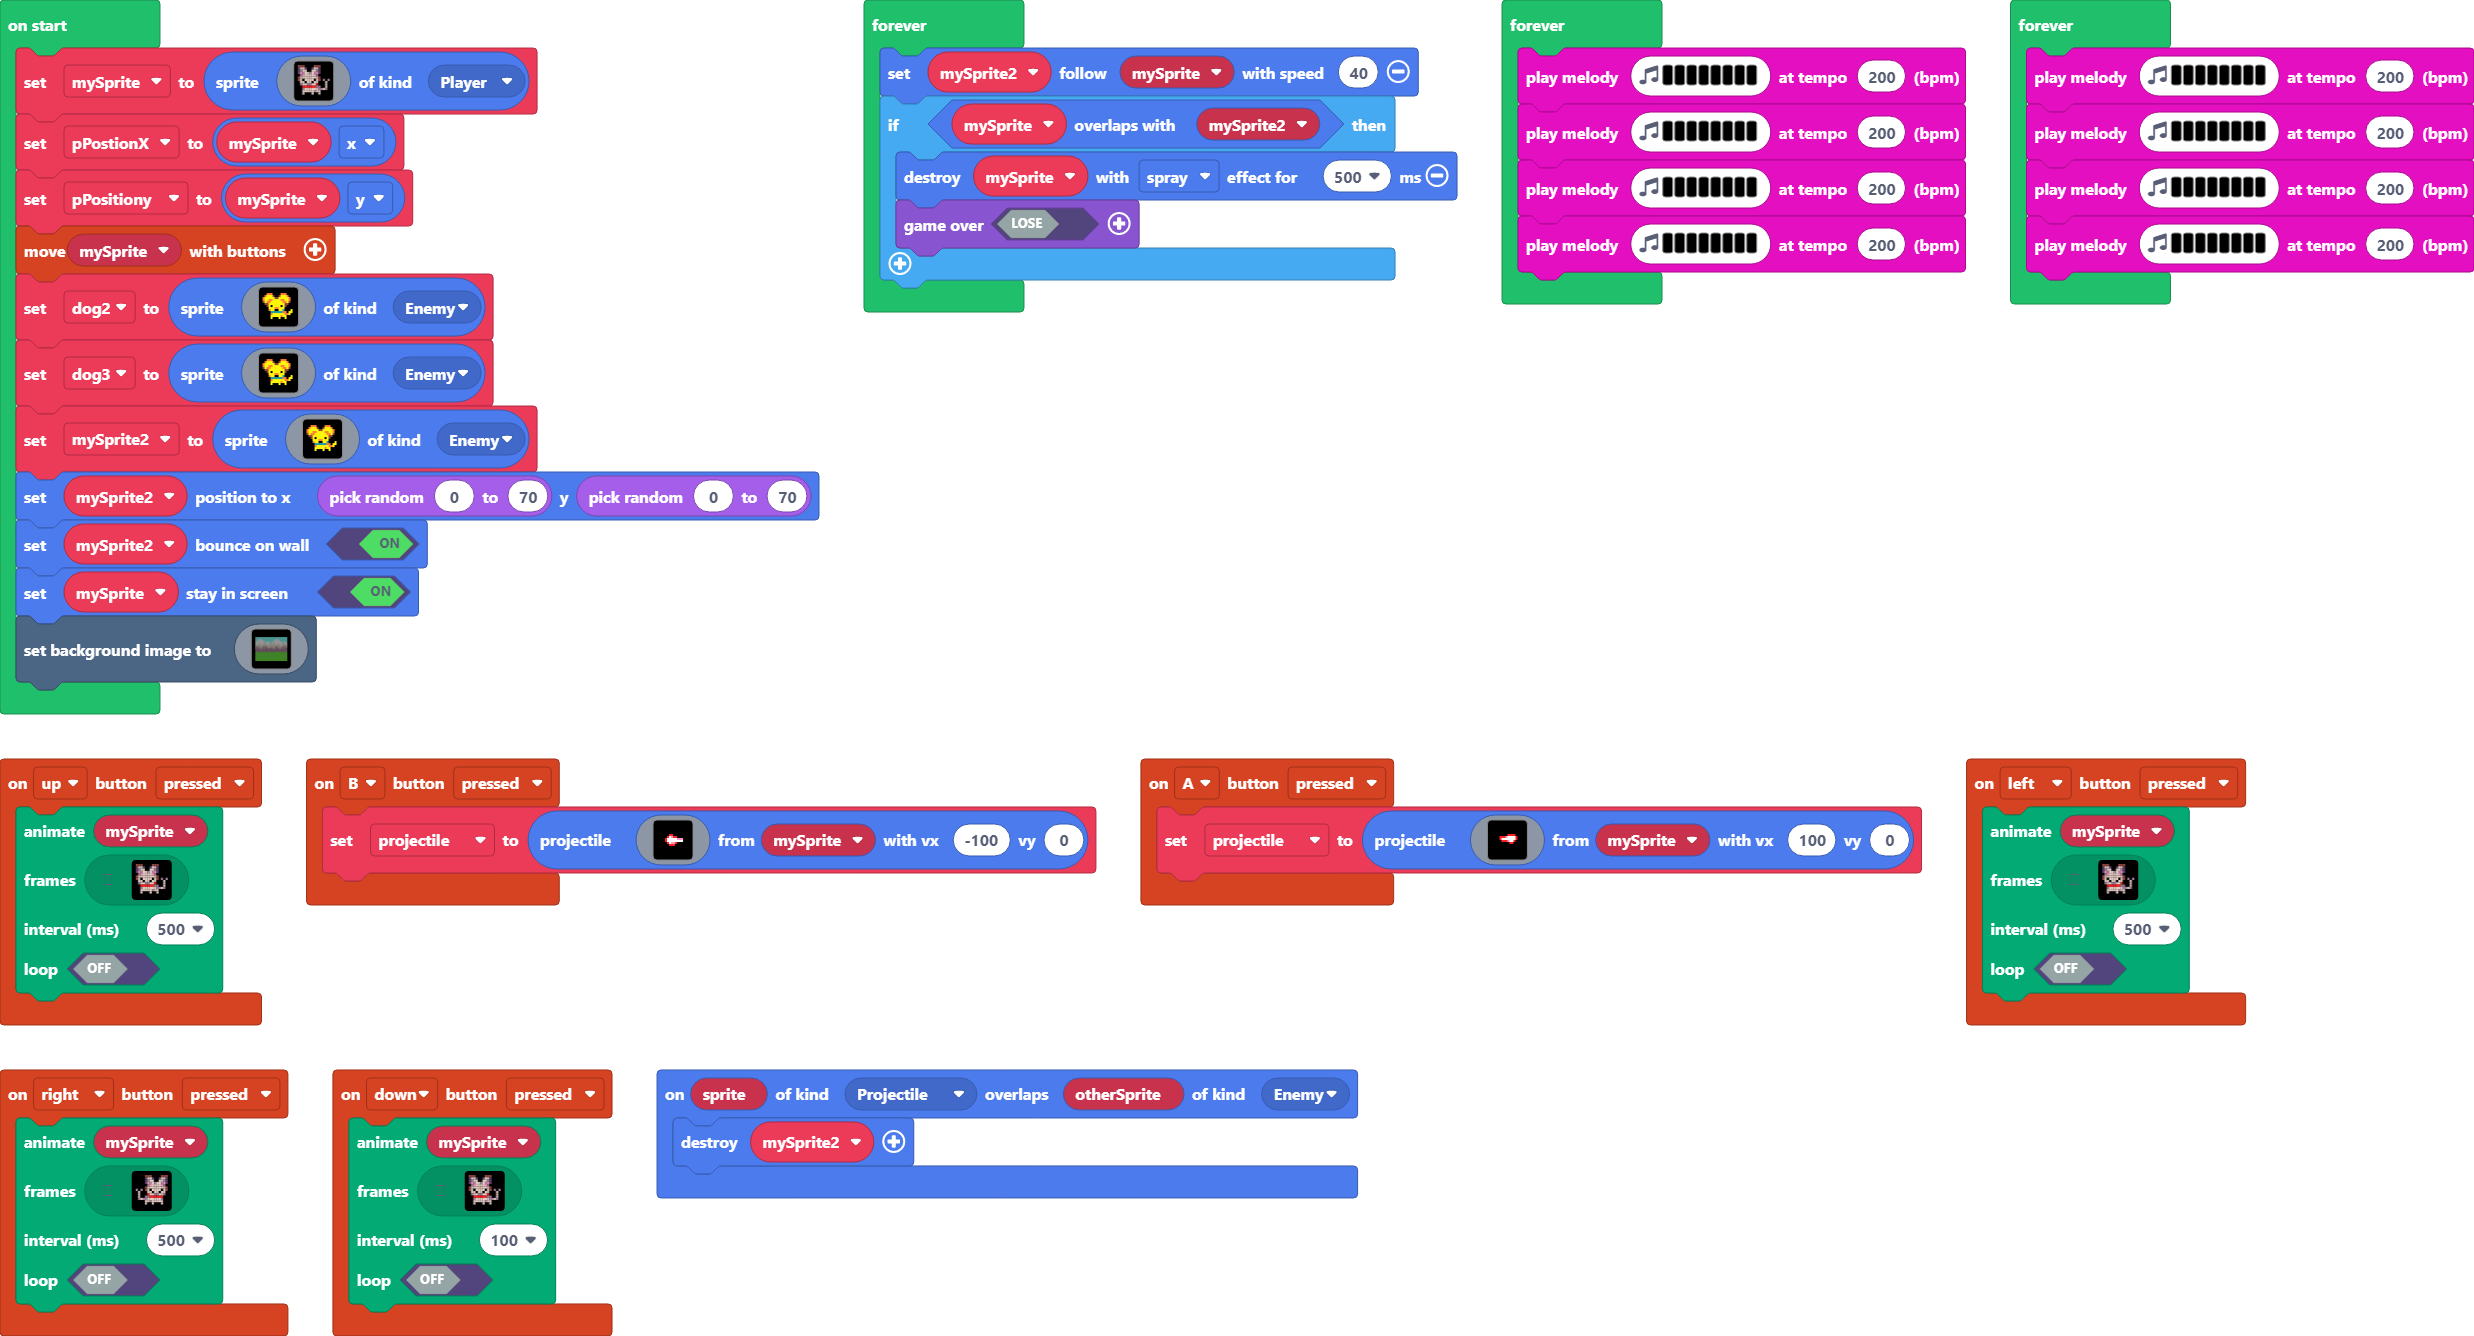
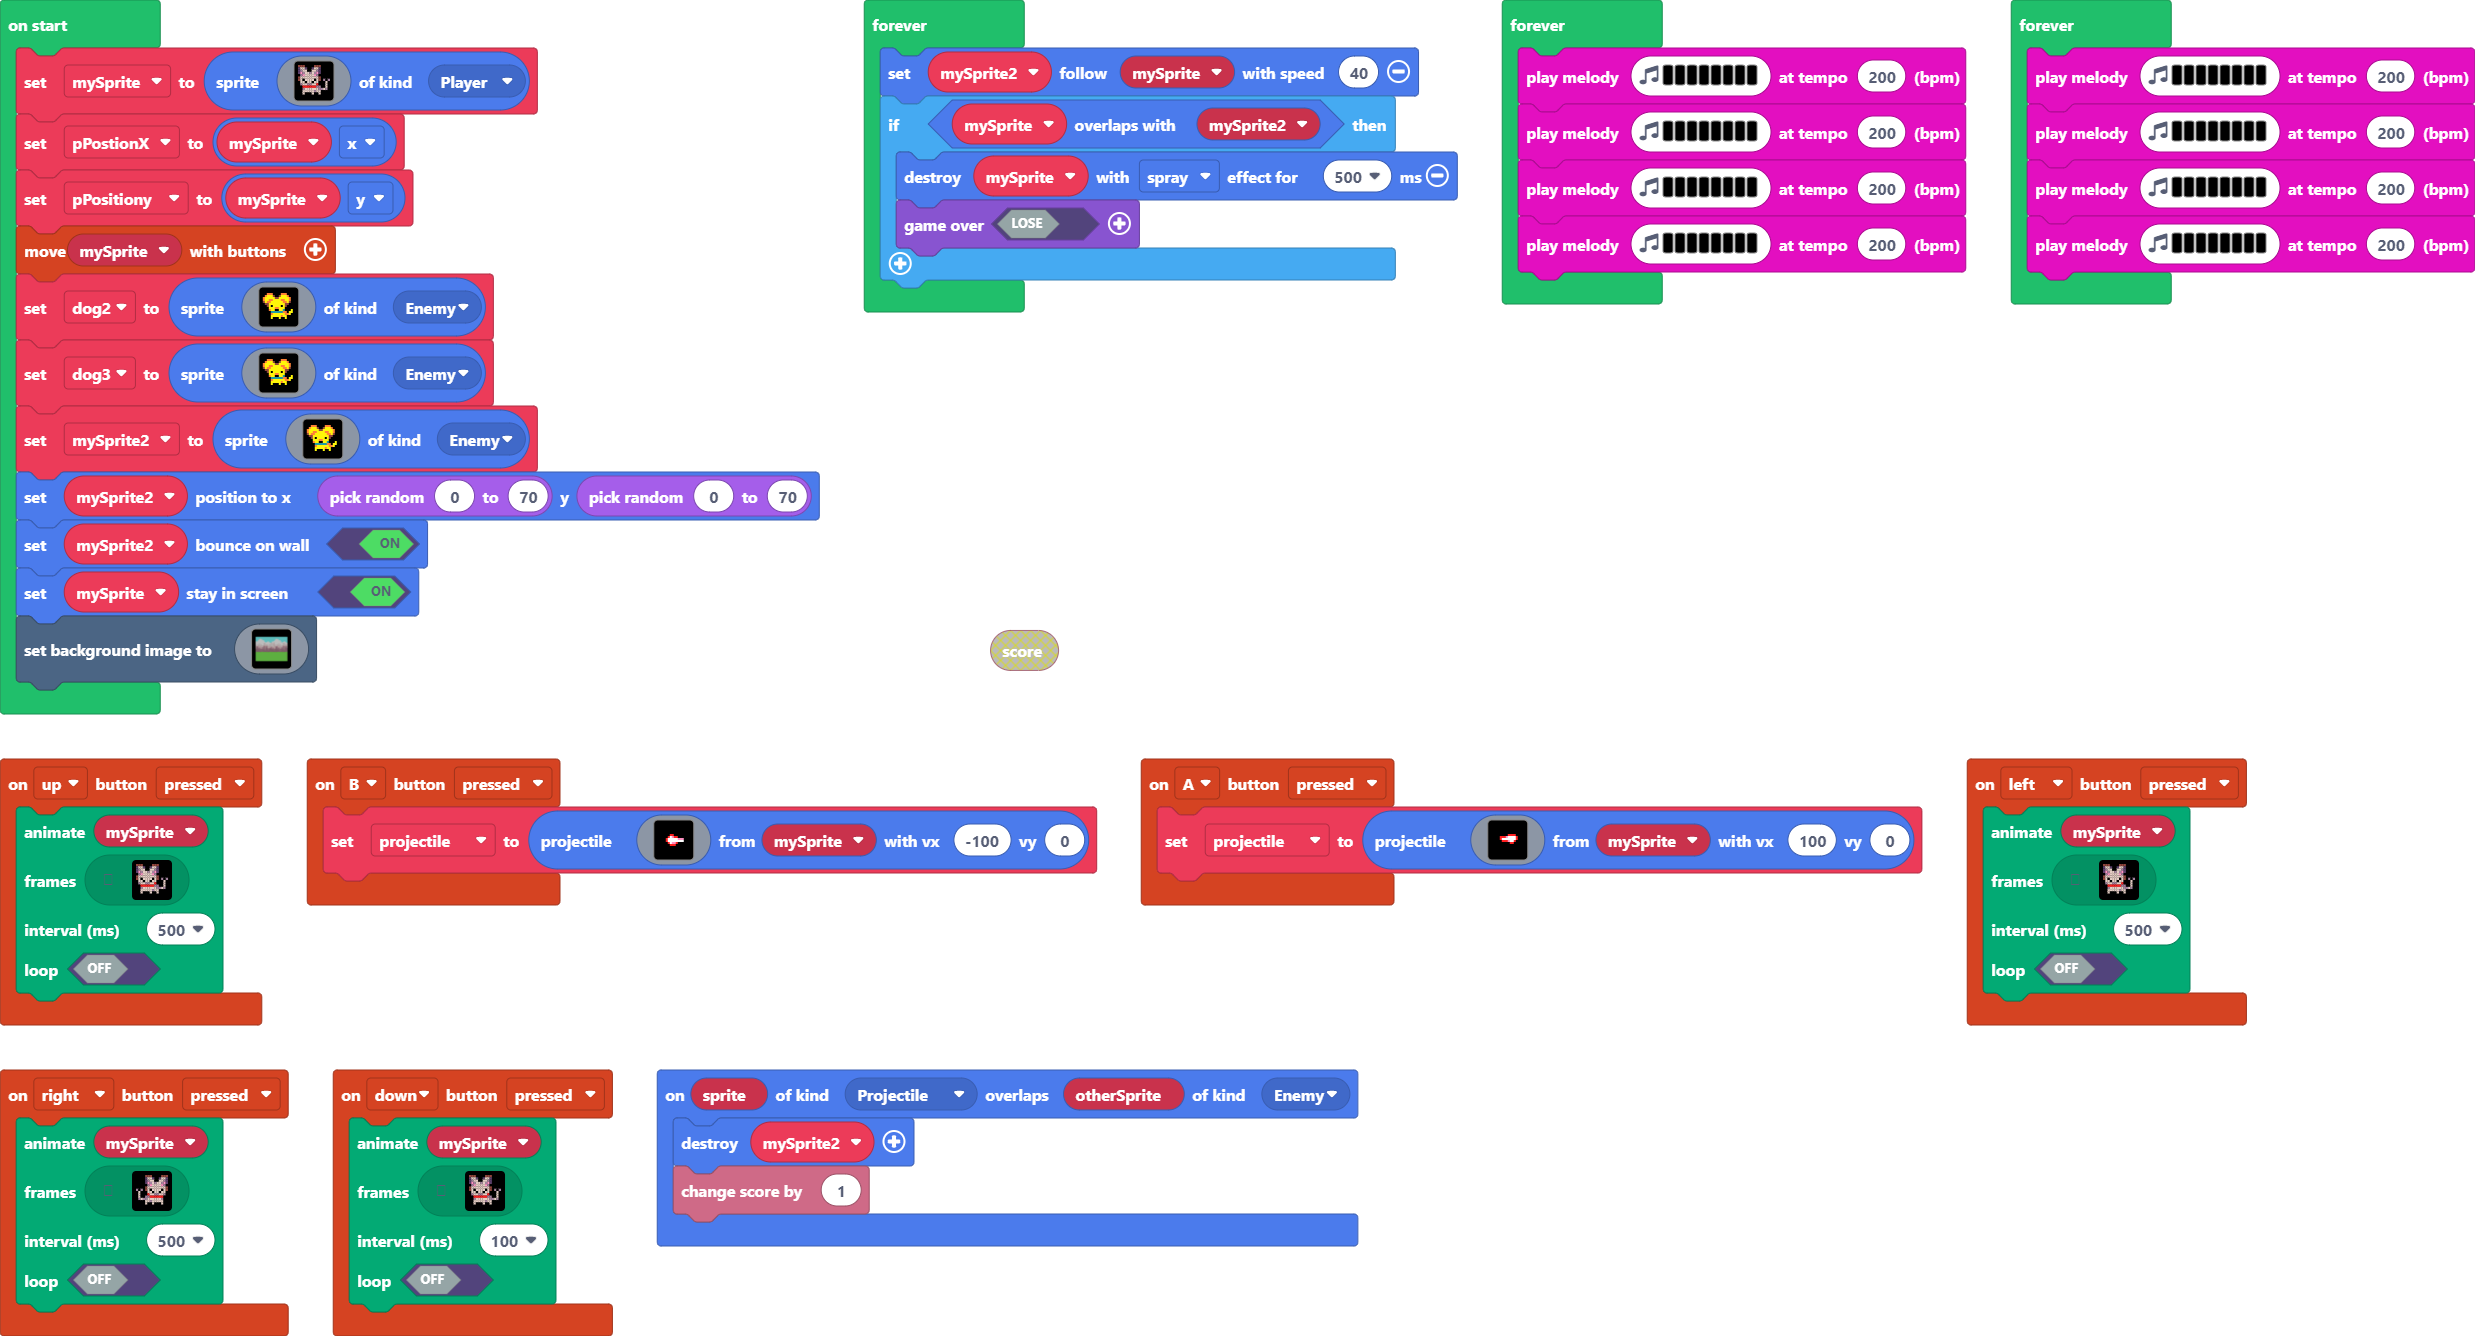
scor3

diff --git a/main.ts b/main.ts
@@ -252,6 +252,7 @@ controller.down.onEvent(ControllerButtonEvent.Pressed, function () {
 })
 sprites.onOverlap(SpriteKind.Projectile, SpriteKind.Enemy, function (sprite, otherSprite) {
     mySprite2.destroy()
+    info.changeScoreBy(1)
 })
 let projectile: Sprite = null
 let mySprite2: Sprite = null
